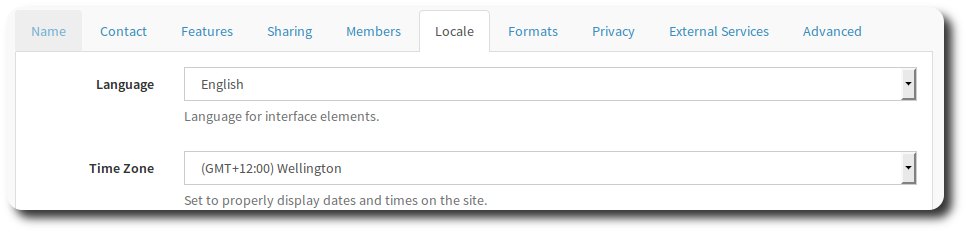
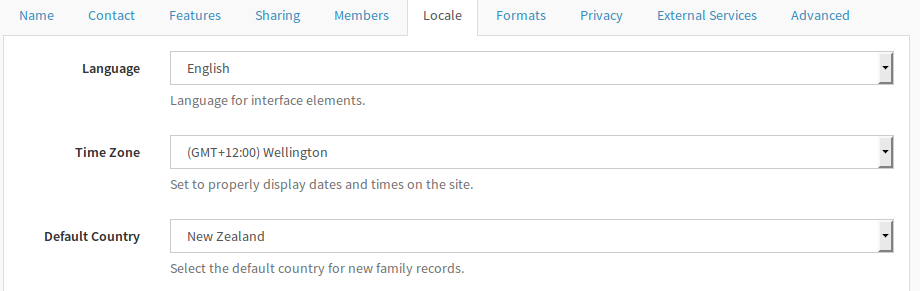
Update to 3.2.0

diff --git a/groups/tasks.md b/groups/tasks.md
@@ -1,0 +1,55 @@
+# Tasks
+
+You can use OneBody groups to manage tasks that your members have to complete.
+
+> **hint** Activate Group Tasks on the [Groups Setup](../groups/creating_a_group.html#features) page.
+
+Select the Tasks metric to access the tasks page, and hit New Task to create your first task.
+
+![New Tasks](../img/groups/tasks-1.png)
+
+You'll see the new task screen. Each task has a name, and optionally, can record a due date, assignee and description. The assignee needs to be a member of the group. Anyone in the group can add a new task.
+
+Fill out the task details and hit Save Task to complete.
+
+![New Tasks](../img/groups/tasks-2.png)
+
+
+#### Viewing Tasks
+
+
+If you have Tasks assigned to you, you'll see them on the sidebar.
+
+![Assigned Tasks Menu](../img/groups/tasks-3.png)
+
+Hit the Tasks menu option to view a list of tasks assigned to you, by group.
+
+![Assigned Tasks](../img/groups/tasks-4.png)
+
+
+#### Administering Tasks
+
+Selecting the task metric on hte groups launching page will take you to a list of tasks for the group.
+
+![Task List](../img/groups/tasks-5.png)
+
+If you need to edit the task, choose the pencil icon next to the task you want to action. The Delete button will remove the task.
+
+You can complete a task by selecting the the check box next to the task. The completed task will grey out.
+
+Sort Tasks by dragging the tile next to the task name. In this example, we've promoted the "confirm number of lunches to be taken" task above the "Collect Bikes from pickup point" task.
+
+![Sorting Tasks](../img/groups/tasks-6.png)
+
+
+If you would like to comment on the task, you can do so by selecting the task name. You can comment on any of your groups' tasks.
+
+![Task Comment](../img/groups/tasks-7.png)
+
+![Completed Comment](../img/groups/tasks-8.png)
+
+The task will also recieve a comment tag.
+
+![Comment Tag](../img/groups/tasks-9.png)
+
+---

diff --git a/groups/creating_a_group.md b/groups/creating_a_group.md
@@ -6,6 +6,8 @@ All groups require approval from a super administrator before they can accept me
 
 There are four tabs you can complete to create your group.
 
+#### Details
+
 The Details tab records basic data about your group:
 
 ![Create a group](../img/groups/groups-3.png)
@@ -16,6 +18,8 @@ The Details tab records basic data about your group:
 If you create the group, you automatically become an adminstrator for the group.
 
 Youll need to add some members to the group before you can nominate a group leader.
+
+####Meets
 
 The Meets tab to let others know about where the group gathers:
 
@@ -40,11 +44,17 @@ You may have to try different combinations of Line 2, Suburb City and Postcode i
 
 > Its usually not neccesscary to modify Line 1 or Country.
 
+#### Features
+
 The features tab controls which OneBody features you want to implement for your group.
 
 **Email** will allow emails to be sent to and from your group email address. You can also share pictures and record attendance for your particular group.
 
+More detail: [Tracking Attendance](../administration/looking_after_groups.html#tracking-attendance) and [Tasks](../groups/tasks.html).
+
 ![Group-meeting-info](../img/groups/groups-5.png)
+
+####Security
 
 Groups also come with security enabled. The security tab holds three settings:
 
@@ -55,7 +65,7 @@ Groups also come with security enabled. The security tab holds three settings:
 You can also share files with the group by uploading them.
 
 
-That's it! You can now post messages, share pictures, and track attendance for your groups!
+That's it! You can now [post messages](../groups/posting_messages.html) share pictures, create [prayer requests](../groups/prayer_requests.html),and [track attendance](../administration/looking_after_groups.html#tracking-attendance) for your groups!
 
 ![Completed group](../img/groups/groups-6.png)
 

diff --git a/README.md b/README.md
@@ -13,17 +13,17 @@ If you're wanting to get OneBody up and running quickly in a non-production envi
 
 
 ### Useful things to know
+
+This help guide is current as at [OneBody version 3.2.0](https://github.com/churchio/onebody/releases/tag/3.2.0).
+
 Throughout the guides, we use the term "member", instead of person, or user. We think the term member more accurately captures our community focus.
 
 We've used some standard terms throughout these guides. You'll find them in the [glossary](GLOSSARY.html).
 
+If you'd like to get a pdf, iPad/iPhone or kindle version of this help, head on over to [Gitbook](https://www.gitbook.io/book/churchio/onebody-help). You can also download and use this help for your own use through [Github](https://github.com/churchio/onebody-help).
+
 If you'd like to contact us, send a message via  [IRC](https://webchat.freenode.net/?channels=#church.io) or our [Google Group](http://groups.google.com/group/churchio). Feedback is always welcome.
 
-Finally, we've assumed that you have:
-* a modern web browser installed (Firefox, Chrome, or Safari)
-* a basic knowledge of how to use the internet
-* the ability to upload and download files using a web browser
-* the ability to use a web browser to search and browse for things
-* an available installation of OneBody
+> **Tag** Thanks for reading!
 
-... because we won't be covering that in these guides.
+<p>

diff --git a/administration/settings_-_part_c.md b/administration/settings_-_part_c.md
@@ -42,6 +42,15 @@ The external services page allows you to configure links to external websites or
 
 * Hit Reload Settings to force a refresh of all settings for OneBody.
 
+If you're using Mailgun as your email provider, you can choose to simply use this button to create your catch-all route, which is required for setup.
+
+Before you hit the button, you need to have the mailgun api key configured (private, not public) in the [External Services](#external-services) page.
+
+Don't worry if you accidently hit the button again - OneBody checks to make sure a route is not already present.
+
+Related Article: [Mailgun Setup - Point 2](https://github.com/churchio/onebody/wiki/MailgunEmailSetup)
+
+
 
 
 

diff --git a/groups/posting_messages.md b/groups/posting_messages.md
@@ -1,0 +1,14 @@
+# Posting Messages
+
+You can use the group message function to send an email to all members of the group, without knowing everyone's email address.
+
+Select the *Messages* metric, and hit New Message to create your messsage.
+
+![New Message](../img/groups/messages-1.png)
+
+The new message screen appears. Give your message a subject and body (just like an email), attach any files, and hit send email!
+
+![Blank Message](../img/groups/messages-2.png)
+
+---
+

diff --git a/coming_soon/README.md b/coming_soon/README.md
@@ -4,10 +4,8 @@ Hey, you've got to the end of the book, and you're wondering: what happened to t
 
 Well, its on its way. In future releases, we'll be looking at:
 * Checkin (Administration and kiosks)
-* Task lists for groups
 * Expand the Planning for OneBody section to include:
     - Some cheat sheets you can use with your members
-    - An example of a plan for implementation
-    - How to handle personal data updates.
+    - An example of a plan for implementation.
 
 

diff --git a/groups/prayer_requests.md b/groups/prayer_requests.md
@@ -1,0 +1,13 @@
+# Prayer Requests
+
+You can use the group prayer request for situations where you (or someone in your group) needs prayer.
+
+Select the *Prayer Request* metric, and hit New Prayer Request to create your messsage.
+
+![Prayer Request](../img/groups/prayer-1.png)
+
+Selecting *send as email* will also email all the members of your group with the request.
+
+You can also come back later and record any answers you have recieved.
+
+----

diff --git a/SUMMARY.md b/SUMMARY.md
@@ -20,6 +20,9 @@
    * [Creating a Group](groups/creating_a_group.md)
    * [Looking after Groups](administration/looking_after_groups.md)
    * [Families](groups/families.md)
+   * [Tasks](groups/tasks.md)
+   * [Posting Messages](groups/posting_messages.md)
+   * [Prayer Requests](groups/prayer_requests.md)
 * [Directories](directories/README.md)
 * [Documents](documents/README.md)
 * [Planning for OneBody](planning_for_installation/README.md)

diff --git a/administration/README.md b/administration/README.md
@@ -13,7 +13,7 @@ When you first enter the dashboard, you'll see metrics, which notify you of acti
 * Sync Errors - Coming Soon!
 * [Groups Pending Approval](#groups-pending-approval)
 * [Group Membership Requests](#group-membership-requests)
-* Deleted People - Coming Soon!
+* [Deleted People](..//administration/looking_after_people.html#deleting-people)
 
 ### Profile Updates
 

diff --git a/groups/README.md b/groups/README.md
@@ -12,7 +12,6 @@ With OneBody Groups, you can:
 You can also report on group activity through the Reporting Dashboard.
 
 
-
 The Groups landing page is your starting point for interacting with groups. From here you can find a group (if your church has many), browse a listing of groups, and view the groups you belong to.
 
 ![Groups Landing Page](../img/groups/groups-1.png)

diff --git a/people/README.md b/people/README.md
@@ -5,7 +5,7 @@ You can access Your Profile by clicking the *Profile* menu option.
 
 ### Your Profile
 
-![Annotated Profile](../img/profile/jim-wright-annotated-profile.png)
+![Annotated Profile](../img/profile/onebody-profile.png)
 
 
 ### Changing your Profile

diff --git a/administration/settings_-_part_b.md b/administration/settings_-_part_b.md
@@ -9,6 +9,7 @@
 | -- | -- |
 | Language | Language for interface elements |
 | Time Zone  | Set the Time Zone of your OneBody installation. |
+| Default Country | Set the Country to be set as a default for new family records.|
 
 
 ## Formats
